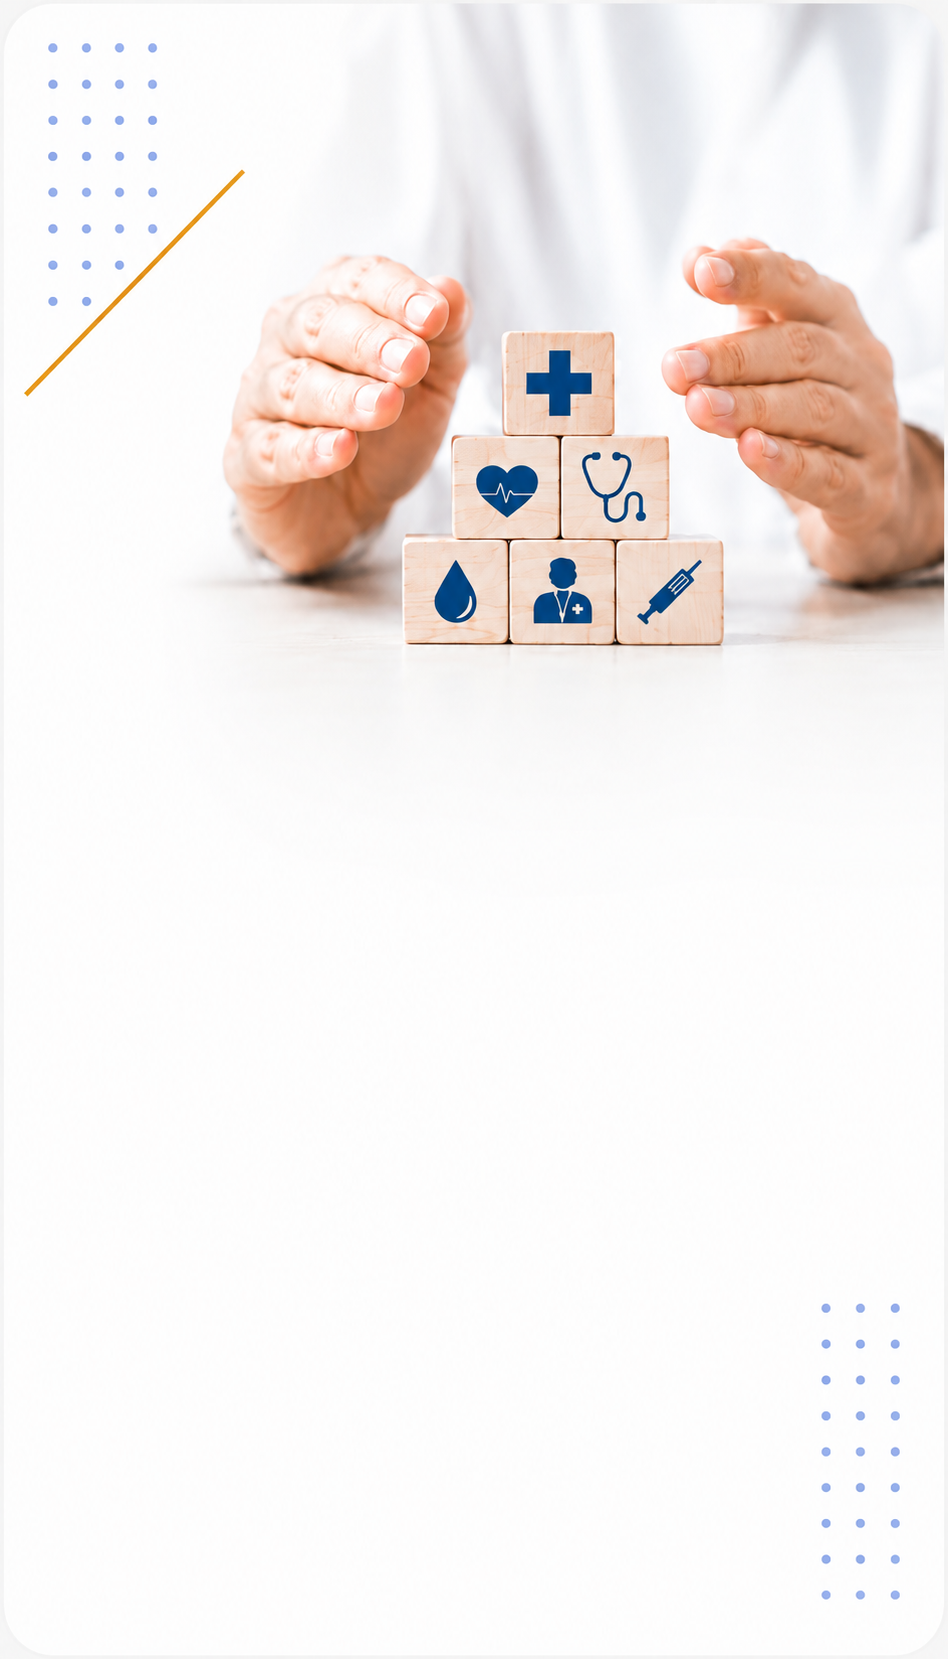
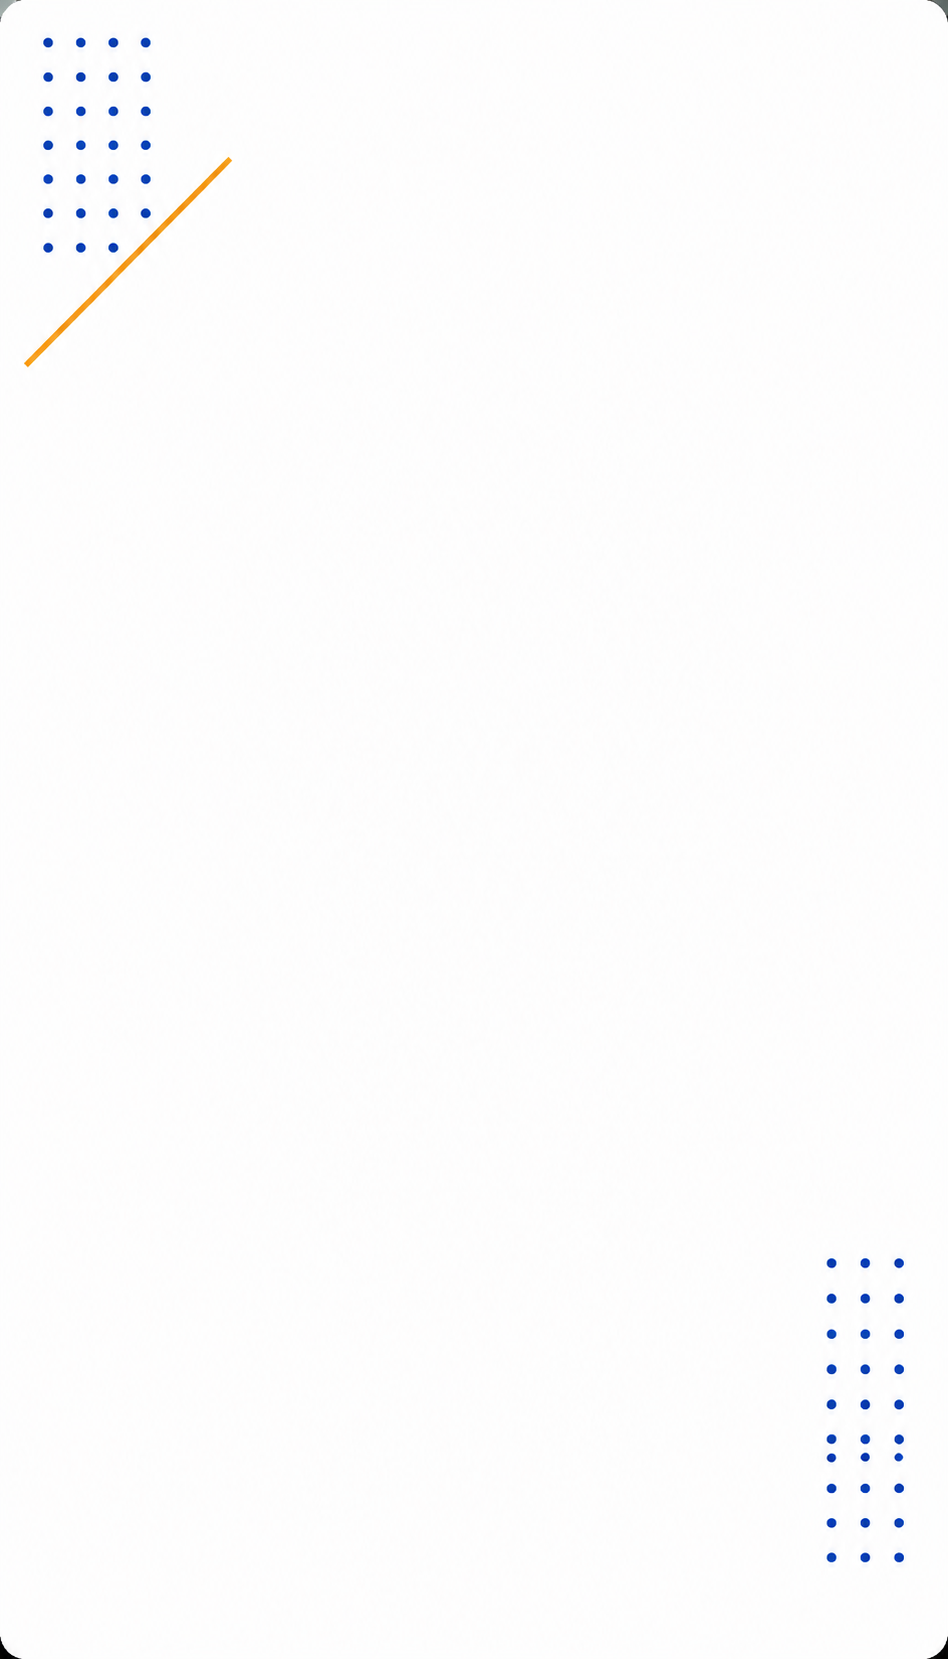
about page changes

diff --git a/src/app/pages/about/about.css b/src/app/pages/about/about.css
@@ -91,7 +91,7 @@
 
   width: 390px;
 
-  margin-left: 4.2vw;
+  margin-left: 5.5vw;
 
   padding-top: 26px;
 }
@@ -1531,6 +1531,7 @@
 
   .vm-title {
     font-size: 29px;
+    text-align: center;
   }
 
   .vm-intro {
@@ -1703,7 +1704,7 @@
   inset: 0;
 
   width: 100%;
-  height: 100%;
+  /* height: 100%; */
 
   /* object-fit: cover; */
   object-position: center center;
@@ -2499,6 +2500,18 @@
   background: #ffffff;
 }
 
+.committee-section .tech-bg {
+  position: absolute;
+  inset: 0;
+  width: 100%;
+  height: 100%;
+  object-fit: cover;
+  object-position: center center;
+  z-index: 0;
+  pointer-events: none;
+  display: block;
+}
+
 
 /* =========================================================
    DECORATIVE BACKGROUND
@@ -2725,6 +2738,7 @@
 
   /* inner whitespace matching PDF design */
   padding: 16px 18px;
+  /* bottom:  290px; */
 }
 
 
@@ -2779,7 +2793,7 @@
 
   margin-left: auto;
   margin-right: auto;
-  bottom: 60px;
+  bottom: 20px;
 }
 
 
@@ -3117,7 +3131,7 @@
 
 
 /* =========================================================
-   LAPTOP
+   LAPTOP  (900px – 1200px)
 ========================================================= */
 
 @media (max-width: 1200px) {
@@ -3129,12 +3143,11 @@
 
   .committee-image-card,
   .committee-members {
-    width: 88%;
+    width: 92%;
   }
 
   .member-name {
     font-size: 12px;
-
     padding-left: 8px;
     padding-right: 8px;
   }
@@ -3145,7 +3158,6 @@
 
   .committee-left-right {
     left: 145px;
-
     font-size: 10px;
   }
 
@@ -3155,56 +3167,96 @@
 
   .member-names {
     width: calc(100% - 145px);
-
     margin-left: 145px;
+  }
+
+  /* 5 standing columns — fine at this width */
+  .standing-members .member-names {
+    grid-template-columns: repeat(5, 1fr);
+  }
+
+  /* 7 sitting columns → 4 per row (wraps into two rows) */
+  .sitting-members .member-names {
+    grid-template-columns: repeat(4, 1fr);
+  }
+
+  /* Remove right-border on the last cell of each row (4th column) */
+  .sitting-members .member-name:nth-child(4n)::after {
+    display: none;
   }
 }
 
 
 /* =========================================================
-   TABLET
+   TABLET  (700px – 900px)
 ========================================================= */
 
 @media (max-width: 900px) {
 
   .committee-section {
     min-height: auto;
-
-    padding:
-      35px 20px 50px;
+    padding: 30px 16px 45px;
   }
 
   .committee-image-card,
   .committee-members {
-    width: 94%;
+    width: 100%;
   }
 
   .committee-image-card {
-    border-radius: 25px;
+    border-radius: 20px;
   }
 
-  .committee-left-right {
-    left: 125px;
-  }
-
-  .member-line {
-    left: 125px;
-  }
-
-  .member-names {
-    width: calc(100% - 125px);
-
-    margin-left: 125px;
-  }
-
-  .member-name {
-    font-size: 10px;
-
-    padding: 0 5px;
+  /* Give member-area enough top padding for the absolutely-positioned label */
+  .committee-members {
+    position: relative;
+    padding-top: 52px;
   }
 
   .committee-label {
-    left: -8px;
+    left: 0;
+    top: 0;
+    font-size: 11px;
+  }
+
+  .committee-left-right {
+    left: 140px;
+    font-size: 9px;
+    top: 14px;
+  }
+
+  .member-line {
+    left: 140px;
+    top: 37px;
+    width: calc(100% - 140px);
+  }
+
+  /* Names fill the full width below the label row */
+  .member-names {
+    width: 100%;
+    margin-left: 0;
+    padding-top: 6px;
+  }
+
+  .member-name {
+    font-size: 11px;
+    padding: 0 8px;
+  }
+
+  /* Standing: 5 → 3 columns */
+  .standing-members .member-names {
+    grid-template-columns: repeat(3, 1fr);
+  }
+
+  /* Sitting: 7 → 4 columns */
+  .sitting-members .member-names {
+    grid-template-columns: repeat(4, 1fr);
+  }
+
+  /* Remove right-border on last column of each row */
+  .standing-members .member-name:nth-child(3n)::after,
+  .sitting-members  .member-name:nth-child(4n)::after {
+    display: none;
   }
 }
 

diff --git a/src/app/pages/about/about.html b/src/app/pages/about/about.html
@@ -863,7 +863,7 @@
 
     <div class="committee-image-card">
 
-      <img src="/Images/about-section/committee-members-img.png" alt="Core Committee Members" class="committee-image" />
+      <img src="/Images/about-section/vasavi-hospitals-core-committee-members.png" alt="Core Committee Members" class="committee-image" />
 
     </div>
 
